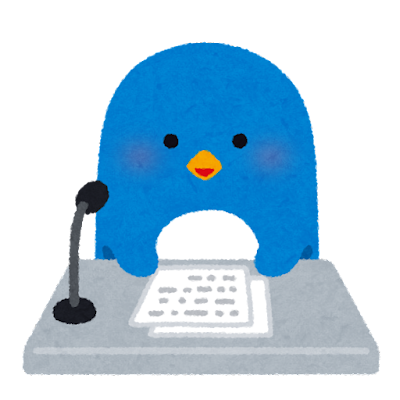
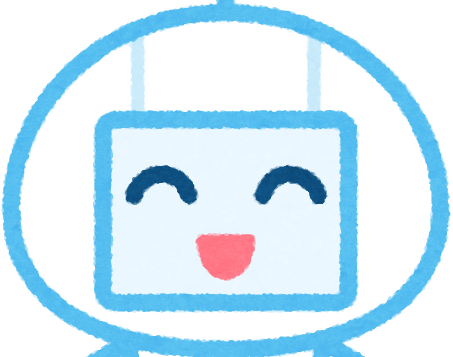
Update: New session data and API integration

diff --git a/Counseling/src/views/consultation.vue b/Counseling/src/views/consultation.vue
@@ -46,21 +46,67 @@
           </div>
         </div>
       </div>
+      <!-- 消息输入区域 -->
+      <div class="chat-input">
+        <div class="input-container">
+          <el-input
+            v-model="userMessage"
+            placeholder="请输入您想要分享的内容..."
+            type="textarea"
+            :rows="3"
+            :disabled="isAiTying"
+            @keydown="handleKeyDown"
+            class="message-input"
+            clearable />
+        </div>
+        <el-button type="primary" class="send-btn" @click="sendMessage">
+          <el-icon>
+            <Promotion />
+          </el-icon>
+        </el-button>
+      </div>
     </div>
   </div>
 </template>
 
 <script setup>
-import { ref } from 'vue'
+import { ref, onMounted  } from 'vue'
 import { Plus } from '@element-plus/icons-vue'
+import { startSession } from '@/api/frontend'
 
 const iconUrl = new URL('@/assets/images/robot-fill.png', import.meta.url).href
 const iconUrl1 = new URL('@/assets/images/like.png', import.meta.url).href
 
+
+// 新建会话
 const createNewFrontendSession = () => {
-  // 新建会话逻辑
+  // 创建一个新的会话对象
+  const newSession = {
+    sessionId: `temp_${Date.now()}`,
+    status: 'TEMP',
+    sessionTitle: '新对话'
+  }
+  currentSession.value = newSession
 }
 
+// 定义一个当前会话对象
+const currentSession = ref(null)
 // 定义对话消息
 const message = ref([])
+// 定义用户输入消息
+const userMessage = ref('')
+// 定义AI助手是否正在输入
+const isAiTyping = ref(false)
+
+const handleKeyDown = (e) => {
+  if (e.key === 'Enter' && !e.shiftKey) {
+    e.preventDefault()
+    sendMessage()
+  }
+}
+
+onMounted(() => {
+  // 初始化时创建一个新会话
+  createNewFrontendSession()
+})
 </script>

diff --git a/Counseling/src/api/frontend.js b/Counseling/src/api/frontend.js
@@ -3,3 +3,6 @@ import service from '@/utils/request'
 export const register = (data) => {
   return service.post('/user/add', data)
 }
+export const startSession = (data) => {
+  return service.post('/psychological-chat/session/start', data)
+}

diff --git a/Counseling/src/style.css b/Counseling/src/style.css
@@ -1283,8 +1283,6 @@ body {
           }
         }
       }
-
-      /* 错误消息样式 */
       .error-message {
         background: linear-gradient(135deg, #FEF2F2 0%, #FECACA 100%);
         border: 1px solid #F87171;
